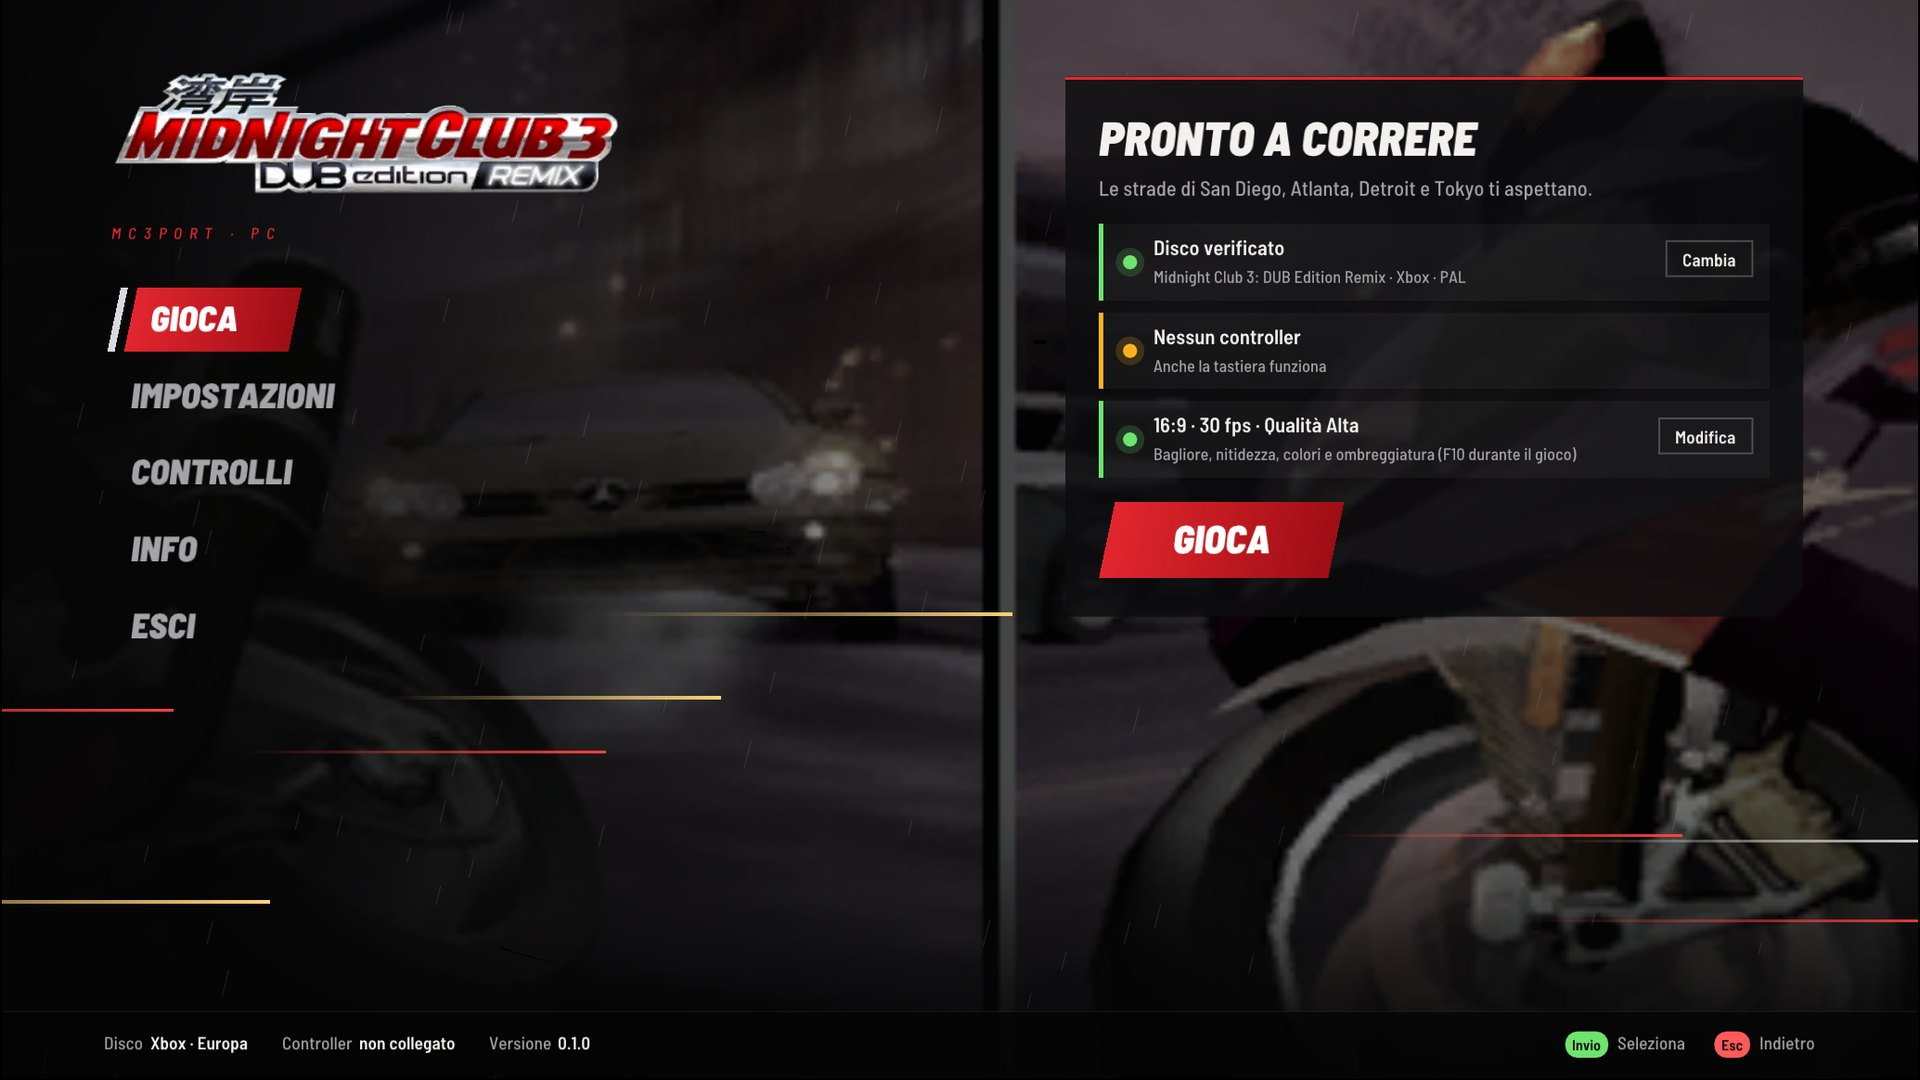
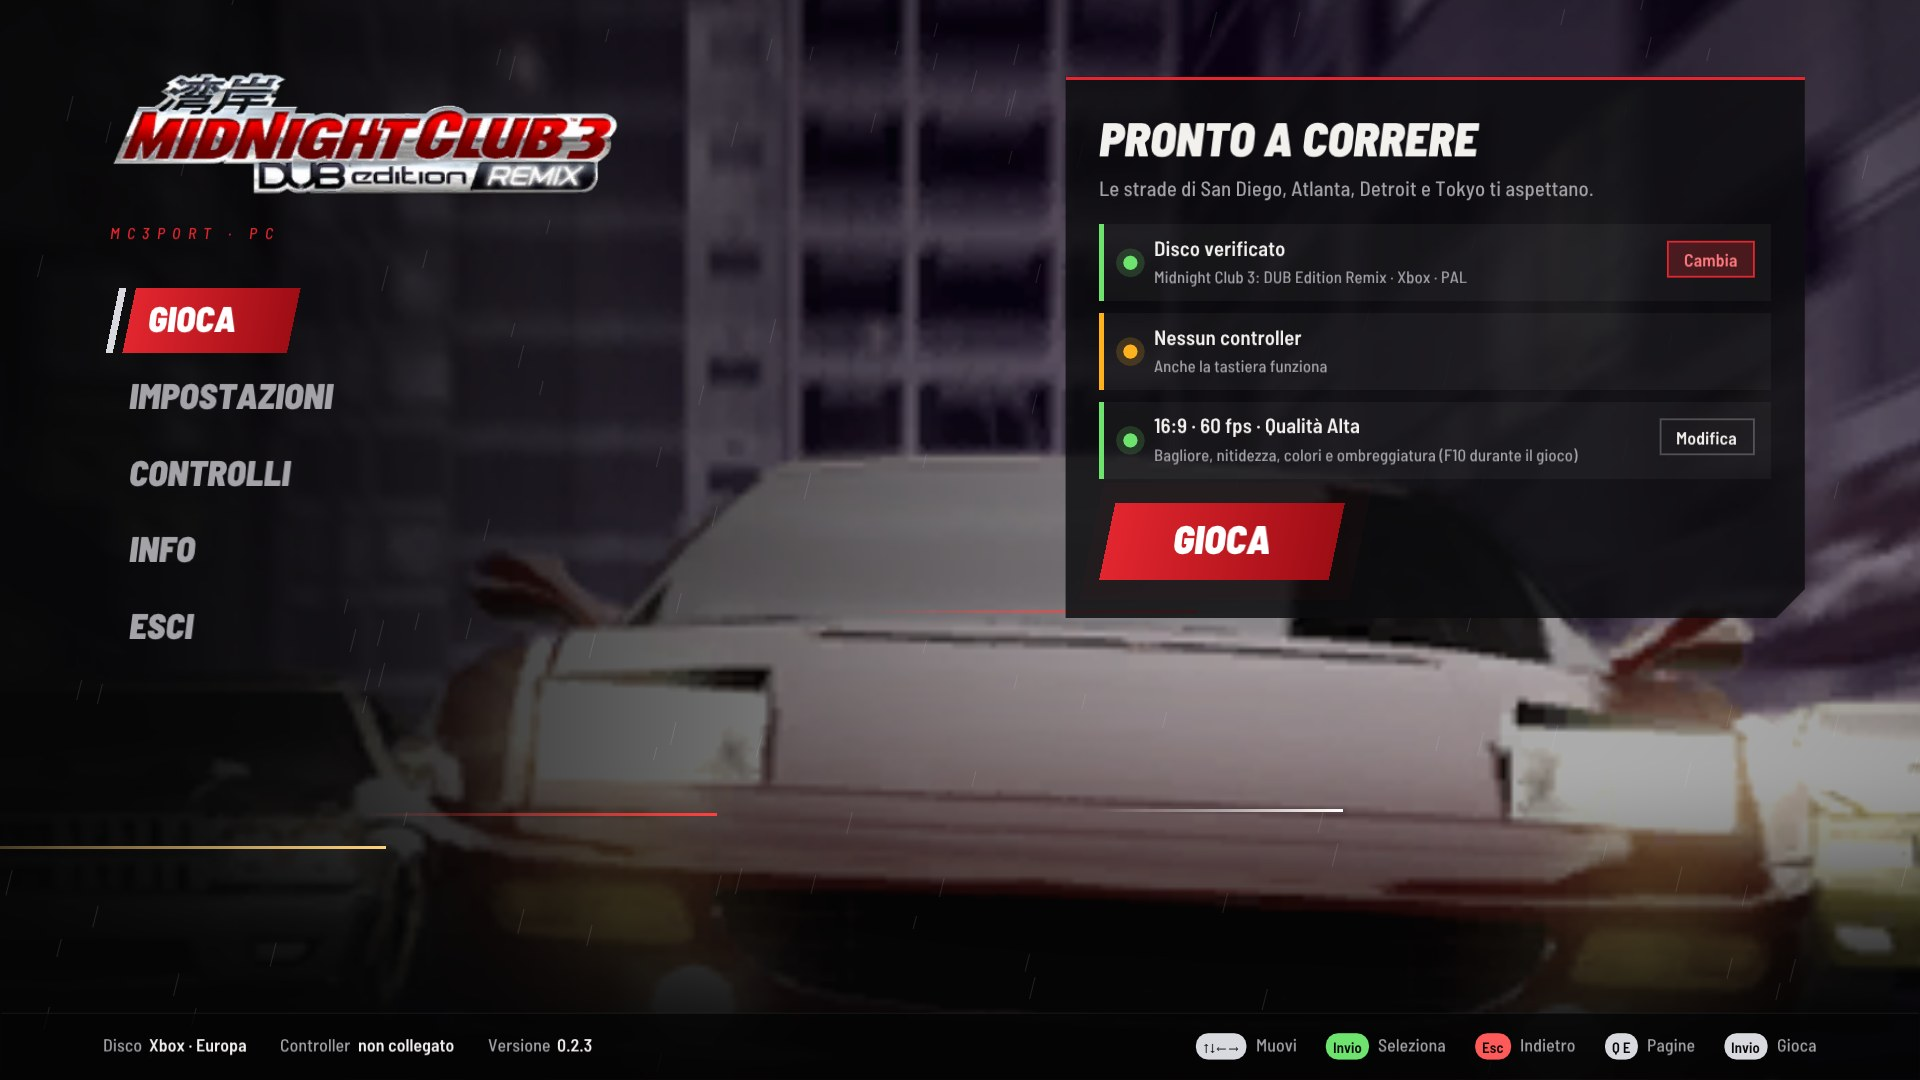
Phase 7 · Docs: Launcher screenshots of 0.2.3
The three launcher captures still showed version 0.1.0: the Controls
page with "A button", "B button" instead of what each button does, and
without the button icons or the special ability's key. Retaken at
1920x1080 from 0.2.3 (main page, Settings on the Effects tab, Controls);
the game's own screenshots are unchanged.

diff --git a/README.md b/README.md
@@ -21,7 +21,7 @@ optional modern effects.
 | | |
 |---|---|
 | ![A race in Tokyo, 16:9](docs/screenshots/race-16x9.jpg) | ![The launcher](docs/screenshots/launcher.jpg) |
-| ![Launcher settings](docs/screenshots/launcher-settings.jpg) | ![Launcher controls, with rebindable keys](docs/screenshots/launcher-controls.jpg) |
+| ![Launcher settings, Effects tab](docs/screenshots/launcher-settings.jpg) | ![Launcher controls: what each button does, rebindable keys](docs/screenshots/launcher-controls.jpg) |
 
 The launcher speaks English or Italian, following Windows; these captures come from an Italian Windows. Its logo and
 pictures are read from the player's disc. The game content in the screenshots belongs to its owners.
